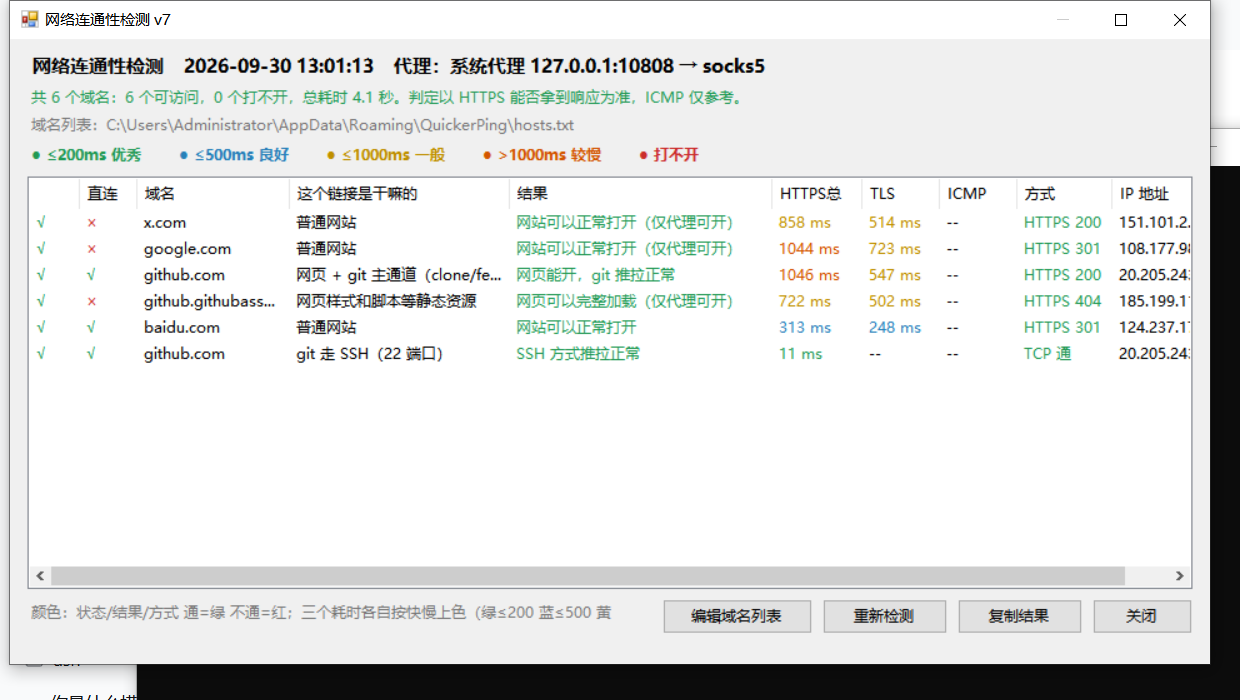
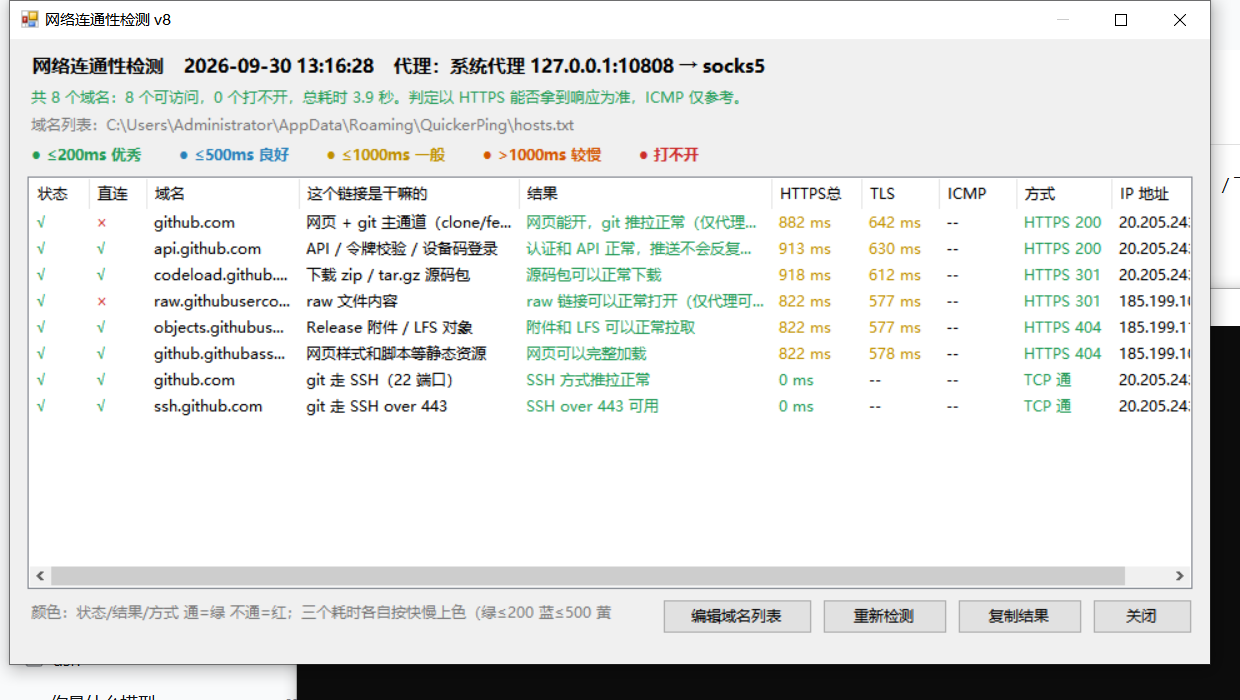
v8：第一列表头恢复为「状态」（v6 简化单元格时误留空）

diff --git a/PingCheck.cs b/PingCheck.cs
@@ -869,7 +869,7 @@ public static class NetProbe
         foreach (Result r in rs) if (r != null && r.Ok) ok++;
 
         StringBuilder sb = new StringBuilder();
-        sb.AppendLine("网络连通性检测 v7    " + DateTime.Now.ToString("yyyy-MM-dd HH:mm:ss") + "    代理：" + proxyNote);
+        sb.AppendLine("网络连通性检测 v8    " + DateTime.Now.ToString("yyyy-MM-dd HH:mm:ss") + "    代理：" + proxyNote);
         sb.AppendLine("--------------------------------------------------------------");
         foreach (Result r in rs)
         {
@@ -907,7 +907,7 @@ public class ProbeForm : Form
     public ProbeForm(NetProbe.Config config)
     {
         cfg = config;
-        this.Text = "网络连通性检测 v7";
+        this.Text = "网络连通性检测 v8";
         this.ClientSize = new Size(960, 500);
         this.StartPosition = FormStartPosition.CenterScreen;
         this.Font = new Font("Microsoft YaHei UI", 9F);
@@ -952,11 +952,11 @@ public class ProbeForm : Form
         list.Location = new Point(14, 110);
         list.Size = new Size(932, 330);
         list.Anchor = AnchorStyles.Top | AnchorStyles.Bottom | AnchorStyles.Left | AnchorStyles.Right;
-        list.Columns.Add("", 40);
+        list.Columns.Add("状态", 48);
         list.Columns.Add("直连", 46);
         list.Columns.Add("域名", 122);
         list.Columns.Add("这个链接是干嘛的", 176);
-        list.Columns.Add("结果", 210);
+        list.Columns.Add("结果", 202);
         list.Columns.Add("HTTPS总", 72);
         list.Columns.Add("TLS", 62);
         list.Columns.Add("ICMP", 62);

diff --git a/使用说明.md b/使用说明.md
@@ -1,8 +1,8 @@
-# Quicker 动作：网站连通性检测 v7（HTTPS 判定 · 自动代理 · 直连对照）
+# Quicker 动作：网站连通性检测 v8（HTTPS 判定 · 自动代理 · 直连对照）
 
 点一下动作 → 真去请求一遍 HTTPS，判断**能不能打开**、**要等多少 ms**、**这个链接是干嘛的**。
 
-> 版本看窗口标题：当前 **v7**。标题没版本号、或「域名」列出现 `tcp/xxx` 这种带前缀的名字、或第一列又出现彩色文字 → 你导入的是旧动作。
+> 版本看窗口标题：当前 **v8**。标题没版本号、或「域名」列出现 `tcp/xxx` 这种带前缀的名字、或第一列又出现彩色文字 → 你导入的是旧动作。
 
 ## 文件
 
@@ -18,7 +18,7 @@
 
 | 列 | 含义 | 颜色规则 |
 | --- | --- | --- |
-| **状态**（表头空） | **本次实际走的那条路**能不能打开（表头「代理：…」写了走的是哪条），只显示 `√` / `×` | 能连=**绿 √**，不能连=**红 ×** |
+| **状态** | **本次实际走的那条路**能不能打开（表头「代理：…」写了走的是哪条），单元格只显示 `√` / `×` | 能连=**绿 √**，不能连=**红 ×** |
 | **直连** | **不走代理**时的对照结果 | `√`=直连也能开（绿），`×`=只有走代理才能开（红），`–`=没测 |
 | 域名 | 你配置的名字 | 黑 |
 | **这个链接是干嘛的** | 该端点的用途（GitHub 端点内置中文说明） | 黑 |
